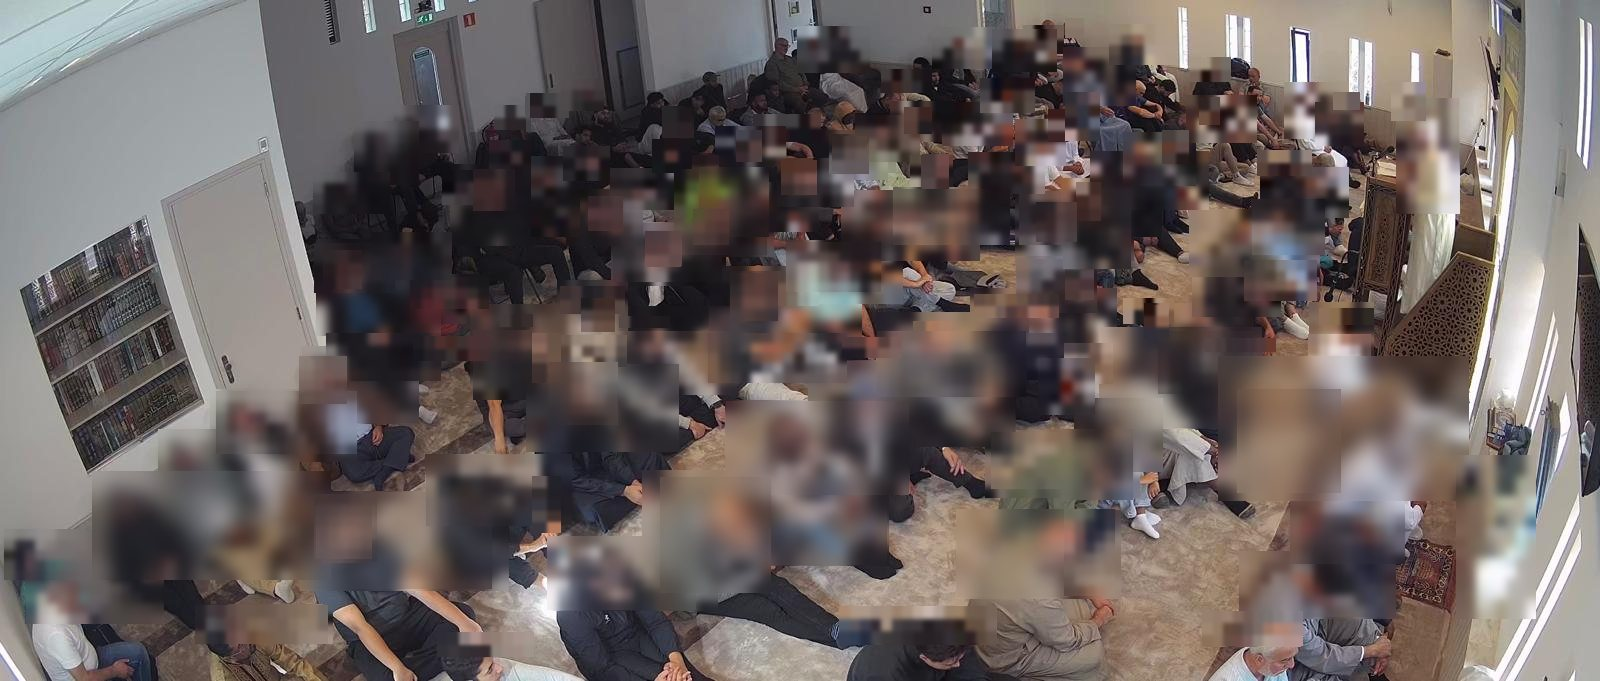
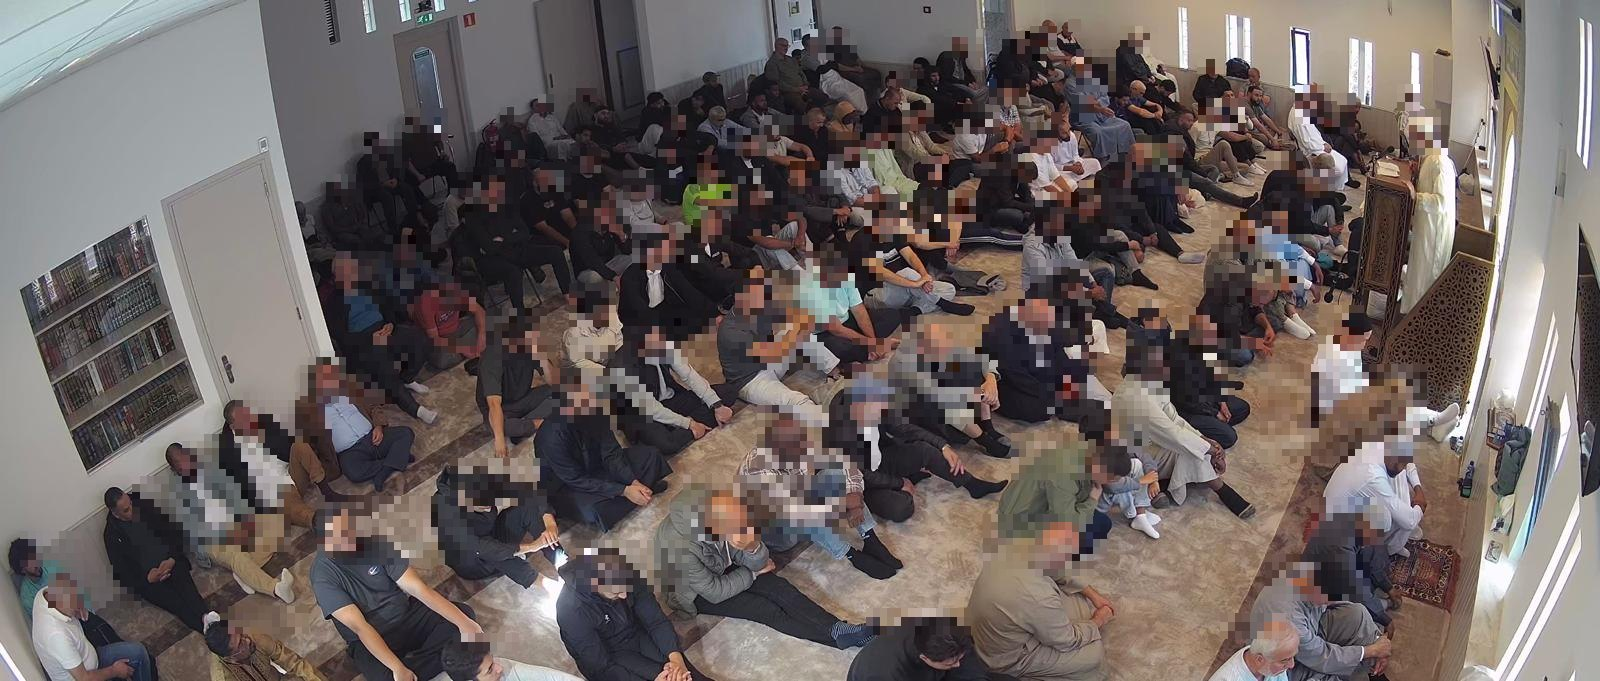
Feedback klant verwerkt: teksten, centrering, foto's en jumuah-blur

diff --git a/index.html b/index.html
@@ -12,7 +12,7 @@
   <link rel="icon" type="image/png" href="images/favicon.png">
   <meta name="theme-color" content="#4A5B56">
 </head>
-<body>
+<body class="centered">
   <a class="skip-link" href="#main">Naar hoofdinhoud</a>
 
   <!-- HEADER -->
@@ -61,12 +61,11 @@
           <p class="hero__lead">Een plek voor geloof, kennis en verbinding.</p>
           <p class="body">
             Generatie na generatie komen mensen bij Arrahmaan samen voor religieuze,
-            educatieve en sociale behoeften. Samen bouwen we aan een betrokken gemeenschap
+            educatieve en sociale activiteiten. Samen bouwen we aan een betrokken gemeenschap
             waarin kinderen, jongeren, volwassenen en ouderen hun plek vinden.
           </p>
           <div class="hero__actions">
             <a href="over-ons.html" class="btn btn--on-dark">Lees meer over ons</a>
-            <a href="steun-ons.html" class="btn btn--primary">Steun de moskee</a>
           </div>
         </div>
       </div>
@@ -95,35 +94,6 @@
       </div>
     </section>
 
-    <!-- OVER ONS TEASER -->
-    <section class="about section-pad">
-      <div class="wrap lede">
-        <p class="kicker">Over ons</p>
-        <h2>Een gemeenschap van geloof, kennis en verbinding</h2>
-        <p>
-          Wat begon als een gemeenschap van pioniers is uitgegroeid tot een actieve en
-          betrokken moskee waar generaties samenkomen. Gevestigd aan het Kasperspad 81,
-          in de 19e-eeuwse Schil van Dordrecht, zijn we al jarenlang onderdeel van de stad.
-        </p>
-        <p>
-          We bieden ruimte voor gebed en islamitisch onderwijs, maar ook voor ontmoeting,
-          activiteiten en het samenbrengen van mensen. We investeren in de generaties die na ons komen.
-        </p>
-        <a href="over-ons.html" class="btn btn--ghost">Lees ons hele verhaal</a>
-      </div>
-    </section>
-
-    <!-- COMMUNITY BEELDBAND -->
-    <section class="band" aria-hidden="true">
-      <img src="images/moskee-benedenverdieping.jpg" alt="De gebedszaal van Moskee Arrahmaan" loading="lazy">
-      <div class="band__overlay">
-        <div class="wrap">
-          <p class="quote">Samen komen. Samen bouwen aan onze gemeenschap.</p>
-          <span class="src">Moskee Arrahmaan · Dordrecht</span>
-        </div>
-      </div>
-    </section>
-
     <!-- STEUN ONS -->
     <section class="support section-pad">
       <div class="wrap support__grid">
@@ -141,6 +111,11 @@
           <a href="steun-ons.html" class="btn btn--ghost">Contributie &amp; incasso</a>
         </div>
       </div>
+    </section>
+
+    <!-- COMMUNITY BEELDBAND -->
+    <section class="band" aria-hidden="true">
+      <img src="images/moskee-benedenverdieping.jpg" alt="De gebedszaal van Moskee Arrahmaan" loading="lazy">
     </section>
 
     <!-- ONTDEK -->
@@ -180,16 +155,12 @@
         <h2>Een kijkje binnen</h2>
         <div class="gallery" style="margin-top:1.5rem;">
           <figure>
-            <img src="images/moskee-boeken-1.jpg" alt="Boekenkast met Koran-exemplaren in de moskee" loading="lazy">
-            <figcaption>Onze bibliotheek met Koran-exemplaren.</figcaption>
-          </figure>
-          <figure>
             <img src="images/moskee-boeken-2.jpg" alt="Boekenkast met vertalingen van de Koran" loading="lazy">
-            <figcaption>Naslagwerken voor onderwijs en verdieping.</figcaption>
+            <figcaption>Diverse Koran-exemplaren voor onze gasten.</figcaption>
           </figure>
           <figure>
             <img src="images/moskee-boeken-4.jpg" alt="Boekenkast met studieboeken voor het Koranonderwijs" loading="lazy">
-            <figcaption>Studiemateriaal voor onze leerlingen.</figcaption>
+            <figcaption>Onze bibliotheek met diverse religieuze boeken.</figcaption>
           </figure>
         </div>
       </div>

diff --git a/onderwijs.html b/onderwijs.html
@@ -69,7 +69,6 @@
       <img src="images/onderwijs-pagina.jpg" alt="" loading="lazy">
       <div class="band__overlay">
         <div class="wrap">
-          <p class="quote">Kennis opdoen, in je eigen tempo, samen met de imam.</p>
           <span class="src">Koranonderwijs · Moskee Arrahmaan</span>
         </div>
       </div>
@@ -108,25 +107,6 @@
             </dl>
             <p>Je leert de soera’s in je eigen tempo en komt op vaste momenten bij de imam langs om je te laten overhoren en je recitatie en uitspraak te verbeteren. Aanmelden? Spreek de imam aan in de moskee.</p>
           </div>
-        </div>
-
-        <div class="gallery" style="margin-top:2.5rem;">
-          <figure>
-            <img src="images/moskee-boeken-1.jpg" alt="Boekenkast met Koran-exemplaren en islamitische literatuur" loading="lazy">
-            <figcaption>Onze bibliotheek met Koran-exemplaren.</figcaption>
-          </figure>
-          <figure>
-            <img src="images/moskee-boeken-2.jpg" alt="Boekenkast met vertalingen van de Koran en naslagwerken" loading="lazy">
-            <figcaption>Naslagwerken voor onderwijs en verdieping.</figcaption>
-          </figure>
-          <figure>
-            <img src="images/moskee-boeken-3.jpg" alt="Boekenkast achter glas met religieuze literatuur" loading="lazy">
-            <figcaption>Een groeiende collectie islamitische boeken.</figcaption>
-          </figure>
-          <figure>
-            <img src="images/moskee-boeken-4.jpg" alt="Boekenkast met studieboeken voor het Koranonderwijs" loading="lazy">
-            <figcaption>Studiemateriaal voor onze leerlingen.</figcaption>
-          </figure>
         </div>
 
         <div class="whatsapp-cta">

diff --git a/activiteiten.html b/activiteiten.html
@@ -12,7 +12,7 @@
   <link rel="icon" type="image/png" href="images/favicon.png">
   <meta name="theme-color" content="#4A5B56">
 </head>
-<body>
+<body class="centered">
   <a class="skip-link" href="#main">Naar hoofdinhoud</a>
   <header class="site-header">
     <div class="wrap header-inner">
@@ -67,10 +67,6 @@
 
         <div class="gallery" style="margin-top:2.5rem;">
           <figure>
-            <img src="images/activiteiten-3.jpg" alt="Gemeenschappelijk gebed in de tent tijdens Ramadan" loading="lazy">
-            <figcaption>Samen bidden tijdens de maand Ramadan.</figcaption>
-          </figure>
-          <figure>
             <img src="images/activiteiten-2.jpg" alt="Gezamenlijke iftar-maaltijd in de zaal" loading="lazy">
             <figcaption>Gezamenlijke iftar met de gemeenschap.</figcaption>
           </figure>
@@ -90,10 +86,10 @@
 
         <div class="whatsapp-cta">
           <div>
-            <h2>Blijf op de hoogte</h2>
+            <h2>Blijf op de hoogte via onze WhatsApp Community</h2>
             <p>De meest actuele informatie over activiteiten, bijeenkomsten en actualiteiten delen we via onze WhatsApp Community.</p>
           </div>
-          <a href="#" class="btn btn--primary">Word (gratis) lid</a>
+          <a href="#" class="btn btn--primary btn--lg">Word (gratis) lid</a>
         </div>
       </div>
     </section>

diff --git a/css/style.css b/css/style.css
@@ -91,6 +91,7 @@ h1, h2, h3 {
 .btn--ghost:hover { border-color: var(--brand-green); }
 .btn--on-dark { background: transparent; color: #fff; border-color: rgba(255,255,255,.4); }
 .btn--on-dark:hover { border-color: #fff; }
+.btn--lg { padding: 1rem 2rem; font-size: 1.1rem; font-weight: 600; }
 
 /* ---------- Header ---------- */
 .site-header {
@@ -415,6 +416,25 @@ section { scroll-margin-top: 90px; }
 .footer-bottom {
   margin-top: 3rem; padding-top: 1.5rem; border-top: 1px solid rgba(255,255,255,.12);
   font-size: .85rem; color: #8AA093;
+}
+
+/* ---------- Centered tekst (body.centered) ---------- */
+body.centered .prose,
+body.centered .page-hero__inner,
+body.centered .hero__inner,
+body.centered .support__grid > div,
+body.centered .contact-methods,
+body.centered .contact-method {
+  text-align: center;
+}
+body.centered .prose,
+body.centered .page-hero__inner,
+body.centered .hero__inner {
+  margin-inline: auto;
+}
+body.centered .hero__actions,
+body.centered .support__actions {
+  justify-content: center;
 }
 
 /* ---------- Responsive ---------- */

diff --git a/contact.html b/contact.html
@@ -12,7 +12,7 @@
   <link rel="icon" type="image/png" href="images/favicon.png">
   <meta name="theme-color" content="#4A5B56">
 </head>
-<body>
+<body class="centered">
   <a class="skip-link" href="#main">Naar hoofdinhoud</a>
   <header class="site-header">
     <div class="wrap header-inner">

diff --git a/steun-ons.html b/steun-ons.html
@@ -12,7 +12,7 @@
   <link rel="icon" type="image/png" href="images/favicon.png">
   <meta name="theme-color" content="#4A5B56">
 </head>
-<body>
+<body class="centered">
   <a class="skip-link" href="#main">Naar hoofdinhoud</a>
   <header class="site-header">
     <div class="wrap header-inner">
